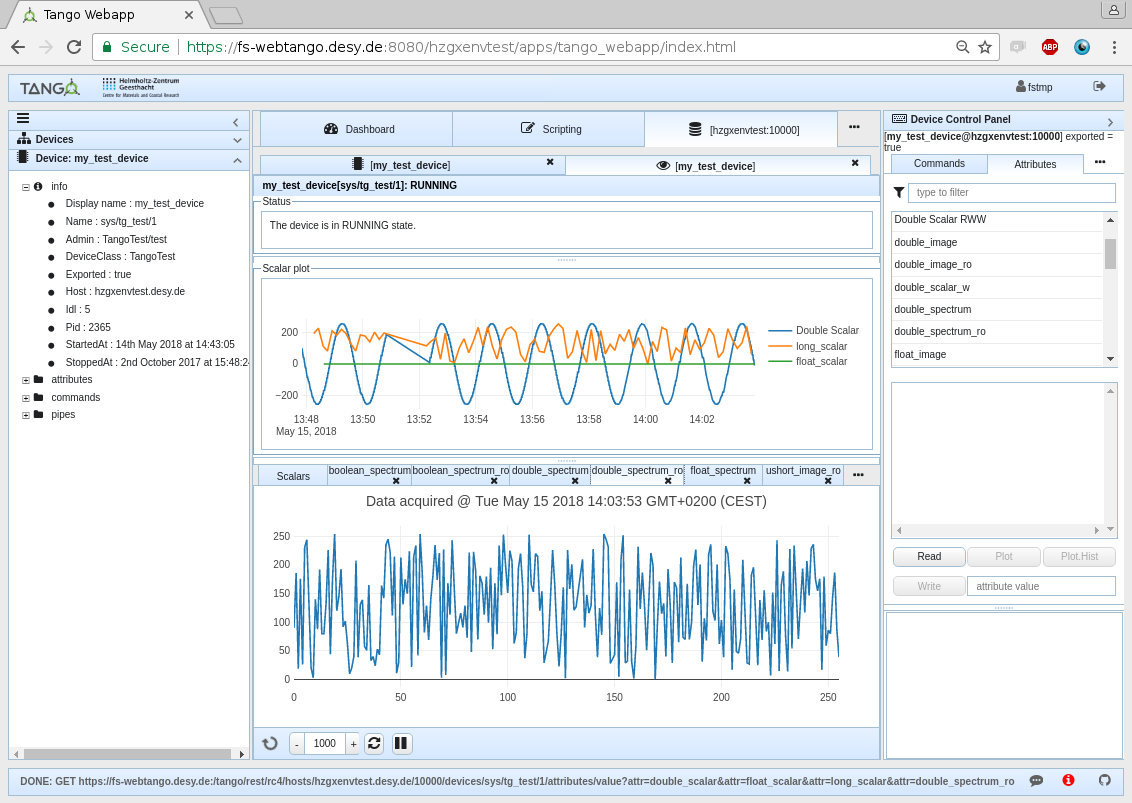
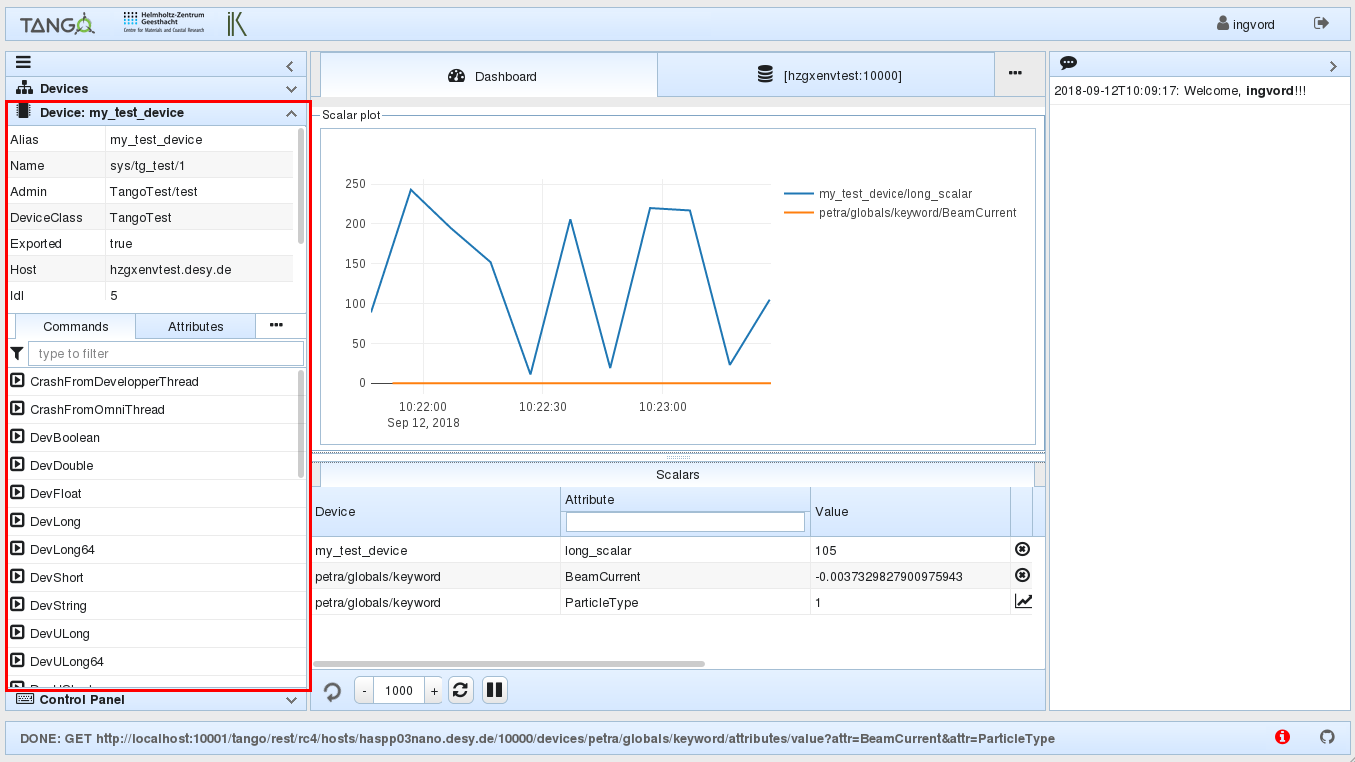
progress

diff --git a/docs/user_guide.md b/docs/user_guide.md
@@ -38,12 +38,9 @@ On the left — REST API request status (shows current request to the Tango REST
 * failed — no response or it has an error.
 
 On the right bottom corner you will find 
-* user's actions log (![log_icon_users](images/log_icon_users.png)), 
+ 
 * application log (![log_icon_errors](images/log_icon_errors.png)) and 
 * “report an issue or bug” button - link to Waltz GitHub repository (![icon_github](images/icon_github.png)).
-
-![10_users_log](images/10_users_log.png)
-
 
 ## Left panel
 Consists of 3 parts: Filter by text, Devices Controls Widget and Device Controls Widget.
@@ -61,11 +58,11 @@ Delete “tg” in filter box.
 
 Shows all devices you have. In this widget you can configure device, monitor all its attributes and delete it, also filter by text.
 
-Usually, the devices tree widget has the following structure:
-
-![icon_rest](images/icon_rest.png) — Tango REST API URL (the entry point, connected with Tango);
+The devices tree widget has the following structure:
 
 ![icon_host](images/icon_host.png) — Tango host (in this application it is a container of devices);
+
+![icon_aliases](images/icon_aliases.png) — devices aliases (in this application it is a container of devices);
 
 ![icon_domain](images/icon_domain.png) — domains, catalog of families within one tango host;
 
@@ -78,7 +75,7 @@ _Exercise_:
 Expand “development”, “sys” → “tg_test”.
 ```
 
-You can use aliases instead of members to fell more comfortable with the names. 
+You can use aliases instead of members to feel more comfortable with the names. 
 
 ![1_main_page_device_config_prop](images/1_main_page_device_config_prop.png)
 
@@ -171,15 +168,16 @@ _Hint:_ Double click on the device in the Devices tree and you can see the devic
 Here you can:
 * get info about the device;
 * can see device's attributes, commands and pipes;
-* use context menu on Attributes to add to the Dashboard (“Add to monitor”);
-* click on attribute or command or pipe to select it in Device Control Panel.
+* Drag-n-Drop Attributes to the [Dashboard](#dashboard-tab);
+* click on attribute or command or pipe to select it in [Control Panel](#control-panel);
+* dbl click on attribute or command or pipe to expand [Control Panel](#control-panel).
 
 __NOTE__ if you get the following error, this means that Tango device is not exported:
 
 > Reason: TangoProxyException Description: Failed to get proxy for tango://hzgxenvtest.desy.de:10000/development/camel/0:ProxyException in Failed to apply creation policy for proxy development/camel/0 PANIC: TangoApi_DEVICE_NOT_EXPORTED development/camel/0 Not Exported ! Connection(development/camel/0) ERR: TangoApi_CANNOT_IMPORT_DEVICE Cannot import development/camel/0 Connection.build_connection(development/camel/0)[Failed to apply creation policy for proxy development/camel/0:TangoApi_DEVICE_NOT_EXPORTED[development/camel/0 Not Exported !]] Origin: org.tango.web.server.TangoProxyPool.getProxy(TangoProxyPool.java:74)
  
 
-Clicking on “Add to monitor” in the context menu of the attribute, you add it to the dashboard tab in the main view. The dashboard has the same view widget structure as the "monitor tab".
+Drag-n-Drop an attribute to add it to the dashboard tab in the main view. The dashboard has the same view widget structure as the "monitor tab".
 
 ![3_device_tab_to_monitor_1](images/3_device_tab_to_monitor_1.png)
 
@@ -192,14 +190,17 @@ Select any attribute or command or pipe,
 this also selects it in the Device control panel.
 ```
 
-## Right panel - Device Control Panel
-It has 3 tabs (Attributes, Commands and Pipes) each of which has filter by text.
+### Control Panel
+
+It has 3 views (Attributes, Commands and Pipes). Switch between views happens automatically when corresponding entity is selected in Device View panel:
+
+![4_device_controls_write](images/4_device_control_panel.png)
 
 To work with the Device Controls Panel you should select the device first (e.g. in Devices tree widget or in Device widget or click on an attribute in the Dashboard etc.). Name of the selected device is shown above Attributes, Commands and Pipes tabs.
 
 All the attributes, commands and pipes refer to the selected device.
 
-### Attributes tab
+#### Attributes view
 You can “Read”, “Plot”, “Plot.Hist” and “Write”. 
 * Read – shows info about the attribute;
 * Plot – reads the value and plot it. No automatic updates. If you want automatic updates, add attribute to monitor to the Dashboard in Device widget.
@@ -219,7 +220,7 @@ click “Plot”;
 click “Plot.Hist”;
 ```
 
-### Commands tab
+#### Commands view
 To execute the command, first choose the command you need, then type the input value. 
 
 “Input” and “Output” boxes show what type of input value should be written and what output to expect.
@@ -231,10 +232,16 @@ _Exercise_:
 Select “DevDouble” enter 3.14 as input and press the “Execute” button
 ```
 
-### Pipes tab
+#### Pipes tab
 It contains “Read” and “Write” buttons and field where you can write value as [JSON](http://tango-rest-api.readthedocs.io/en/latest/device/#device-pipes).
 
 ![6_device_controls_pipes](images/6_device_controls_pipes.png)
+
+## Right panel
+
+Displays user activity:
+
+![6_device_controls_pipes](images/7_user_log.png)
 
 ## Main view
 
